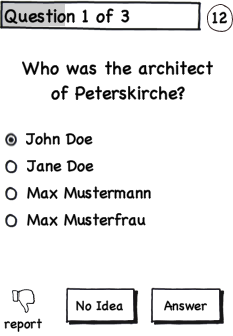
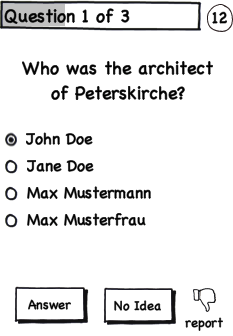
fixing problems

Changed region(s): [[0.0, 0.8333, 0.9614, 1.0]]

diff --git a/assets/06_question1_sel1.html b/assets/06_question1_sel1.html
@@ -9,9 +9,9 @@
             <area id="choice2" shape="rect" coords="0,300,400,270" href="06_question1_sel2.html" alt="Test" />
             <area id="choice3" shape="rect" coords="0,350,400,320" href="06_question1_sel3.html" alt="Test" />
             <area id="choice4" shape="rect" coords="0,400,400,370" href="06_question1_sel4.html" alt="Test" />
-            <area id="btn_no_idea" shape="rect" coords="120,550,230,500" href="06_question3_sel0.html" alt="Test" />
-            <area id="btn_answer" shape="rect" coords="260,550,370,500" href="06_question1_correct.html" alt="Test" />
-            <area id="btn_report" shape="circle" coords="35,520,30" href="06_question2_sel0.html" alt="Test" />
+            <area id="btn_answer" shape="rect" coords="25,550,150,500" href="06_question1_correct.html" alt="Test" />
+            <area id="btn_noidea" shape="rect" coords="175,550,300,500" href="06_question2_sel0.html" alt="Test" />
+            <area id="btn_report" shape="circle" coords="350,520,30" href="06_question2_sel0.html" alt="Test" />
         </map>
         <span class="backbuttonadvice">05_quest_pk.html</span>
     </body>

diff --git a/assets/06_question1_sel2.html b/assets/06_question1_sel2.html
@@ -9,9 +9,9 @@
             <area id="choice1" shape="rect" coords="0,250,400,220" href="06_question1_sel1.html" alt="Test" />
             <area id="choice3" shape="rect" coords="0,350,400,320" href="06_question1_sel3.html" alt="Test" />
             <area id="choice4" shape="rect" coords="0,400,400,370" href="06_question1_sel4.html" alt="Test" />
-            <area id="btn_no_idea" shape="rect" coords="120,550,230,500" href="06_question2_sel0.html" alt="Test" />
-            <area id="btn_answer" shape="rect" coords="260,550,370,500" href="06_question1_correct.html" alt="Test" />
-            <area id="btn_report" shape="circle" coords="35,520,30" href="06_question2_sel0.html" alt="Test" />
+            <area id="btn_answer" shape="rect" coords="25,550,150,500" href="06_question1_correct.html" alt="Test" />
+            <area id="btn_noidea" shape="rect" coords="175,550,300,500" href="06_question2_sel0.html" alt="Test" />
+            <area id="btn_report" shape="circle" coords="350,520,30" href="06_question2_sel0.html" alt="Test" />
         </map>
         <span class="backbuttonadvice">05_quest_pk.html</span>
     </body>

diff --git a/assets/06_question1_sel3.html b/assets/06_question1_sel3.html
@@ -9,9 +9,9 @@
             <area id="choice1" shape="rect" coords="0,250,400,220" href="06_question1_sel1.html" alt="Test" />
             <area id="choice2" shape="rect" coords="0,300,400,270" href="06_question1_sel2.html" alt="Test" />
             <area id="choice4" shape="rect" coords="0,400,400,370" href="06_question1_sel4.html" alt="Test" />
-            <area id="btn_no_idea" shape="rect" coords="120,550,230,500" href="06_question2_sel0.html" alt="Test" />
-            <area id="btn_answer" shape="rect" coords="260,550,370,500" href="06_question1_correct.html" alt="Test" />
-            <area id="btn_report" shape="circle" coords="35,520,30" href="06_question2_sel0.html" alt="Test" />
+            <area id="btn_answer" shape="rect" coords="25,550,150,500" href="06_question1_correct.html" alt="Test" />
+            <area id="btn_noidea" shape="rect" coords="175,550,300,500" href="06_question2_sel0.html" alt="Test" />
+            <area id="btn_report" shape="circle" coords="350,520,30" href="06_question2_sel0.html" alt="Test" />
         </map>
         <span class="backbuttonadvice">05_quest_pk.html</span>
     </body>

diff --git a/assets/06_question1_sel4.html b/assets/06_question1_sel4.html
@@ -9,9 +9,9 @@
             <area id="choice1" shape="rect" coords="0,250,400,220" href="06_question1_sel1.html" alt="Test" />
             <area id="choice2" shape="rect" coords="0,300,400,270" href="06_question1_sel2.html" alt="Test" />
             <area id="choice3" shape="rect" coords="0,350,400,320" href="06_question1_sel3.html" alt="Test" />
-            <area id="btn_no_idea" shape="rect" coords="120,550,230,500" href="06_question2_sel0.html" alt="Test" />
-            <area id="btn_answer" shape="rect" coords="260,550,370,500" href="06_question1_correct.html" alt="Test" />
-            <area id="btn_report" shape="circle" coords="35,520,30" href="06_question2_sel0.html" alt="Test" />
+            <area id="btn_answer" shape="rect" coords="25,550,150,500" href="06_question1_correct.html" alt="Test" />
+            <area id="btn_noidea" shape="rect" coords="175,550,300,500" href="06_question2_sel0.html" alt="Test" />
+            <area id="btn_report" shape="circle" coords="350,520,30" href="06_question2_sel0.html" alt="Test" />
         </map>
         <span class="backbuttonadvice">05_quest_pk.html</span>
     </body>

diff --git a/assets/06_question2_sel2.html b/assets/06_question2_sel2.html
@@ -9,9 +9,9 @@
             <area id="choice1" shape="rect" coords="0,250,400,220" href="06_question2_sel1.html" alt="Test" />
             <area id="choice3" shape="rect" coords="0,350,400,320" href="06_question2_sel3.html" alt="Test" />
             <area id="choice4" shape="rect" coords="0,400,400,370" href="06_question2_sel4.html" alt="Test" />
-            <area id="btn_no_idea" shape="rect" coords="120,550,230,500" href="06_question3_sel0.html" alt="Test" />
-            <area id="btn_answer" shape="rect" coords="260,550,370,500" href="06_question2_correct.html" alt="Test" />
-            <area id="btn_report" shape="circle" coords="35,520,30" href="06_question3_sel0.html" alt="Test" />
+            <area id="btn_answer" shape="rect" coords="25,550,150,500" href="06_question2_correct.html" alt="Test" />
+            <area id="btn_noidea" shape="rect" coords="175,550,300,500" href="06_question3_sel0.html" alt="Test" />
+            <area id="btn_report" shape="circle" coords="350,520,30" href="06_question3_sel0.html" alt="Test" />
         </map>
         <span class="backbuttonadvice">05_quest_pk.html</span>
     </body>

diff --git a/assets/06_question2_sel3.html b/assets/06_question2_sel3.html
@@ -9,9 +9,9 @@
             <area id="choice1" shape="rect" coords="0,250,400,220" href="06_question2_sel1.html" alt="Test" />
             <area id="choice2" shape="rect" coords="0,300,400,270" href="06_question2_sel2.html" alt="Test" />
             <area id="choice4" shape="rect" coords="0,400,400,370" href="06_question2_sel4.html" alt="Test" />
-            <area id="btn_no_idea" shape="rect" coords="120,550,230,500" href="06_question3_sel0.html" alt="Test" />
-            <area id="btn_answer" shape="rect" coords="260,550,370,500" href="06_question2_correct.html" alt="Test" />
-            <area id="btn_report" shape="circle" coords="35,520,30" href="06_question3_sel0.html" alt="Test" />
+            <area id="btn_answer" shape="rect" coords="25,550,150,500" href="06_question2_correct.html" alt="Test" />
+            <area id="btn_noidea" shape="rect" coords="175,550,300,500" href="06_question3_sel0.html" alt="Test" />
+            <area id="btn_report" shape="circle" coords="350,520,30" href="06_question3_sel0.html" alt="Test" />
         </map>
         <span class="backbuttonadvice">05_quest_pk.html</span>
     </body>

diff --git a/assets/06_question2_sel4.html b/assets/06_question2_sel4.html
@@ -9,9 +9,9 @@
             <area id="choice1" shape="rect" coords="0,250,400,220" href="06_question2_sel1.html" alt="Test" />
             <area id="choice2" shape="rect" coords="0,300,400,270" href="06_question2_sel2.html" alt="Test" />
             <area id="choice3" shape="rect" coords="0,350,400,320" href="06_question2_sel3.html" alt="Test" />
-            <area id="btn_no_idea" shape="rect" coords="120,550,230,500" href="06_question3_sel0.html" alt="Test" />
-            <area id="btn_answer" shape="rect" coords="260,550,370,500" href="06_question2_correct.html" alt="Test" />
-            <area id="btn_report" shape="circle" coords="35,520,30" href="06_question3_sel0.html" alt="Test" />
+            <area id="btn_answer" shape="rect" coords="25,550,150,500" href="06_question2_correct.html" alt="Test" />
+            <area id="btn_noidea" shape="rect" coords="175,550,300,500" href="06_question3_sel0.html" alt="Test" />
+            <area id="btn_report" shape="circle" coords="350,520,30" href="06_question3_sel0.html" alt="Test" />
         </map>
         <span class="backbuttonadvice">05_quest_pk.html</span>
     </body>

diff --git a/assets/06_question2_sel1.html b/assets/06_question2_sel1.html
@@ -9,9 +9,9 @@
             <area id="choice2" shape="rect" coords="0,300,400,270" href="06_question2_sel2.html" alt="Test" />
             <area id="choice3" shape="rect" coords="0,350,400,320" href="06_question2_sel3.html" alt="Test" />
             <area id="choice4" shape="rect" coords="0,400,400,370" href="06_question2_sel4.html" alt="Test" />
-            <area id="btn_no_idea" shape="rect" coords="120,550,230,500" href="06_question3_sel0.html" alt="Test" />
-            <area id="btn_answer" shape="rect" coords="260,550,370,500" href="06_question2_correct.html" alt="Test" />
-            <area id="btn_report" shape="circle" coords="35,520,30" href="06_question3_sel0.html" alt="Test" />
+           <area id="btn_answer" shape="rect" coords="25,550,150,500" href="06_question2_correct.html" alt="Test" />
+            <area id="btn_noidea" shape="rect" coords="175,550,300,500" href="06_question3_sel0.html" alt="Test" />
+            <area id="btn_report" shape="circle" coords="350,520,30" href="06_question3_sel0.html" alt="Test" />
         </map>
         <span class="backbuttonadvice">05_quest_pk.html</span>
     </body>

diff --git a/assets/06_question1_sel0.html b/assets/06_question1_sel0.html
@@ -10,9 +10,9 @@
             <area id="choice2" shape="rect" coords="0,300,400,270" href="06_question1_sel2.html" alt="Test" />
             <area id="choice3" shape="rect" coords="0,350,400,320" href="06_question1_sel3.html" alt="Test" />
             <area id="choice4" shape="rect" coords="0,400,400,370" href="06_question1_sel4.html" alt="Test" />
-            <area id="btn_no_idea" shape="rect" coords="120,550,230,500" href="06_question2_sel0.html" alt="Test" />
-            <area id="btn_answer" shape="rect" coords="260,550,370,500" href="06_question1_sel0.html" alt="Test" />
-            <area id="btn_report" shape="circle" coords="35,520,30" href="06_question2_sel0.html" alt="Test" />
+            <area id="btn_answer" shape="rect" coords="25,550,150,500" href="06_question1_sel0.html" alt="Test" />
+            <area id="btn_noidea" shape="rect" coords="175,550,300,500" href="06_question2_sel0.html" alt="Test" />
+            <area id="btn_report" shape="circle" coords="350,520,30" href="06_question2_sel0.html" alt="Test" />
         </map>
         <span class="backbuttonadvice">05_quest_pk.html</span>
     </body>

diff --git a/assets/06_question3_sel0.html b/assets/06_question3_sel0.html
@@ -10,9 +10,9 @@
             <area id="choice2" shape="rect" coords="0,300,400,270" href="06_question3_sel2.html" alt="Test" />
             <area id="choice3" shape="rect" coords="0,350,400,320" href="06_question3_sel3.html" alt="Test" />
             <area id="choice4" shape="rect" coords="0,400,400,370" href="06_question3_sel4.html" alt="Test" />
-            <area id="btn_no_idea" shape="rect" coords="120,550,230,500" href="07_quest_complete.html" alt="Test" />
-            <area id="btn_answer" shape="rect" coords="260,550,370,500" href="06_question3_sel0.html" alt="Test" />
-            <area id="btn_report" shape="circle" coords="35,520,30" href="07_quest_complete.html" alt="Test" />
+            <area id="btn_answer" shape="rect" coords="25,550,150,500" href="06_question3_sel0.html" alt="Test" />
+            <area id="btn_noidea" shape="rect" coords="175,550,300,500" href="07_quest_complete.html" alt="Test" />
+            <area id="btn_report" shape="circle" coords="350,520,30" href="07_quest_complete.html" alt="Test" />
         </map>
         <span class="backbuttonadvice">05_quest_pk.html</span>
     </body>

diff --git a/assets/06_question3_sel1.html b/assets/06_question3_sel1.html
@@ -9,9 +9,9 @@
             <area id="choice2" shape="rect" coords="0,300,400,270" href="06_question3_sel2.html" alt="Test" />
             <area id="choice3" shape="rect" coords="0,350,400,320" href="06_question3_sel3.html" alt="Test" />
             <area id="choice4" shape="rect" coords="0,400,400,370" href="06_question3_sel4.html" alt="Test" />
-            <area id="btn_no_idea" shape="rect" coords="120,550,230,500" href="07_quest_complete.html" alt="Test" />
-            <area id="btn_answer" shape="rect" coords="260,550,370,500" href="06_question3_wrong.html" alt="Test" />
-            <area id="btn_report" shape="circle" coords="35,520,30" href="07_quest_complete.html" alt="Test" />
+            <area id="btn_answer" shape="rect" coords="25,550,150,500" href="06_question3_wrong.html" alt="Test" />
+            <area id="btn_noidea" shape="rect" coords="175,550,300,500" href="07_quest_complete.html" alt="Test" />
+            <area id="btn_report" shape="circle" coords="350,520,30" href="07_quest_complete.html" alt="Test" />
         </map>
         <span class="backbuttonadvice">05_quest_pk.html</span>
     </body>

diff --git a/assets/06_question3_sel2.html b/assets/06_question3_sel2.html
@@ -9,9 +9,9 @@
             <area id="choice1" shape="rect" coords="0,250,400,220" href="06_question3_sel1.html" alt="Test" />
             <area id="choice3" shape="rect" coords="0,350,400,320" href="06_question3_sel3.html" alt="Test" />
             <area id="choice4" shape="rect" coords="0,400,400,370" href="06_question3_sel4.html" alt="Test" />
-            <area id="btn_no_idea" shape="rect" coords="120,550,230,500" href="07_quest_complete.html" alt="Test" />
-            <area id="btn_answer" shape="rect" coords="260,550,370,500" href="06_question3_wrong.html" alt="Test" />
-            <area id="btn_report" shape="circle" coords="35,520,30" href="07_quest_complete.html" alt="Test" />
+            <area id="btn_answer" shape="rect" coords="25,550,150,500" href="06_question3_wrong.html" alt="Test" />
+            <area id="btn_noidea" shape="rect" coords="175,550,300,500" href="07_quest_complete.html" alt="Test" />
+            <area id="btn_report" shape="circle" coords="350,520,30" href="07_quest_complete.html" alt="Test" />
         </map>
         <span class="backbuttonadvice">05_quest_pk.html</span>
     </body>
